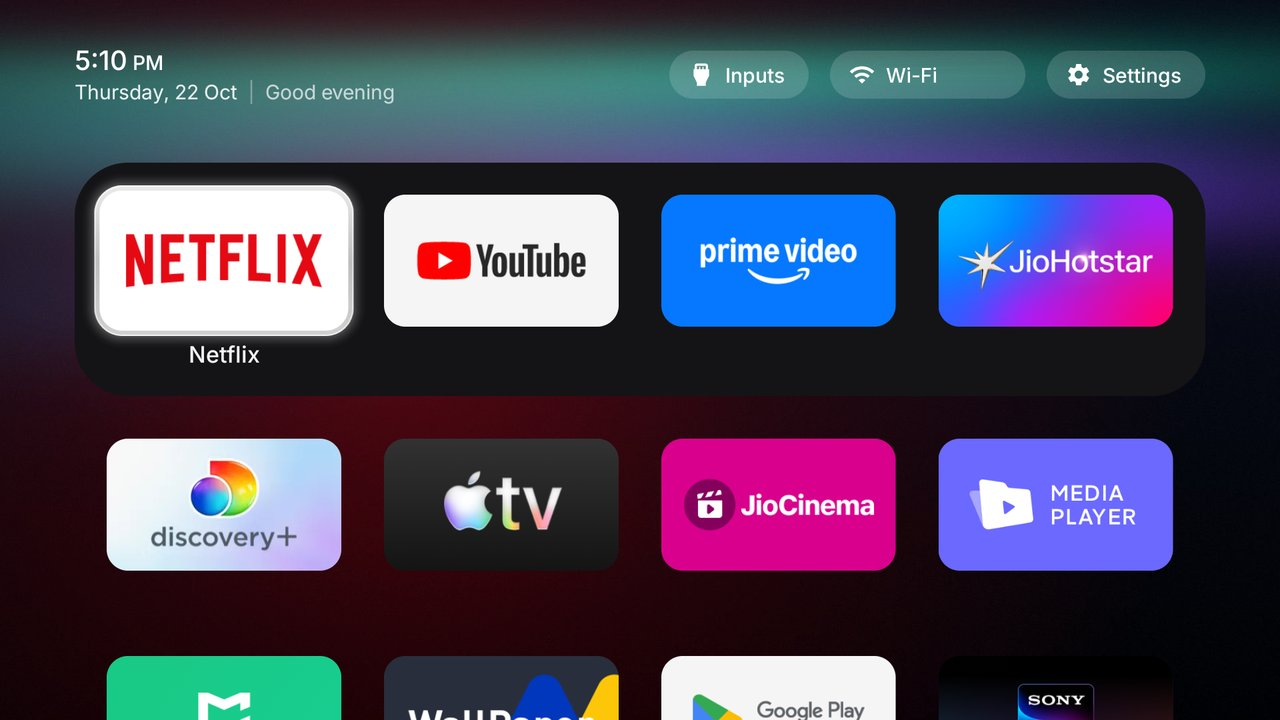
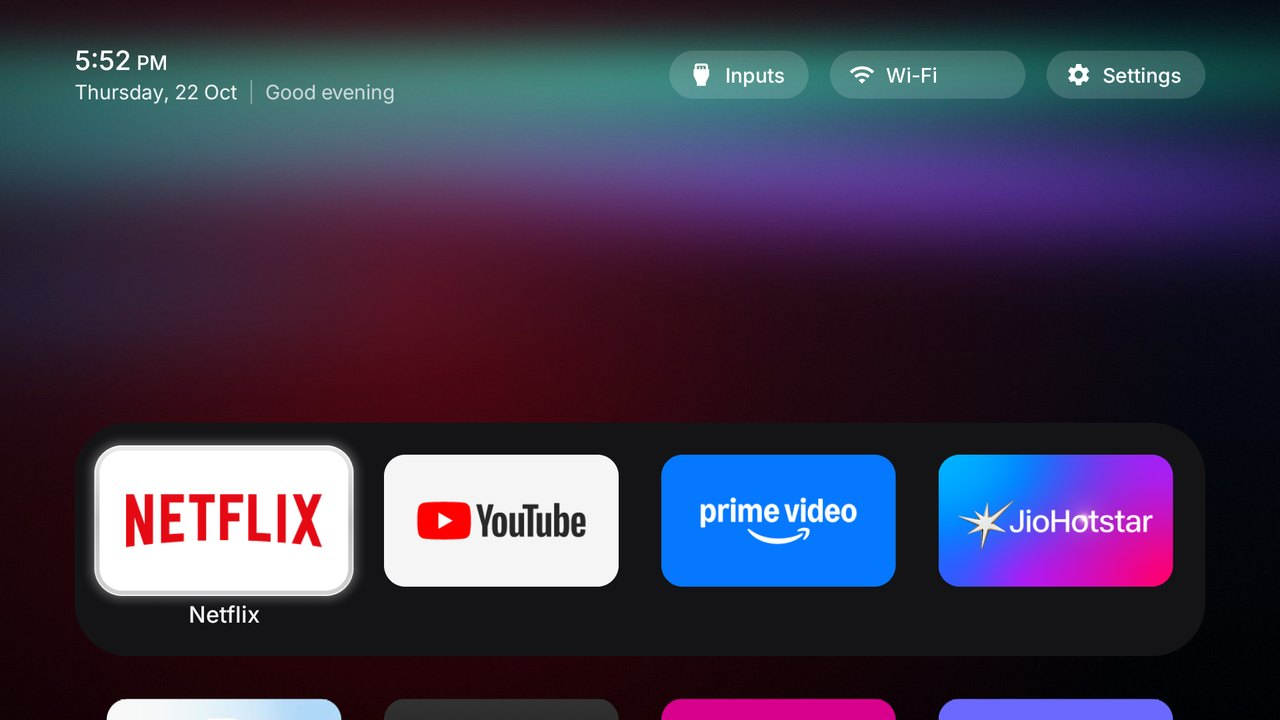
docs, themes: every screenshot retaken, a guide to Home and to each Launcher setting
All README and theme screenshots retaken on the Xiaomi MiTV-AXSO2 with rows below
dock at 0 (now the default again) and the Wi-Fi name painted over. The write-up
starts with what is on Home, how to install, and what each Launcher setting does,
with a screenshot of Home for every choice and of the settings sketch.

diff --git a/docs/readable-home/README.md b/docs/readable-home/README.md
@@ -1,16 +1,96 @@
 # Readable Home
 
-A restyle of this repo's reference launcher for people of any age reading the TV from the sofa: larger and
-calmer type, one spacing system for everything on screen, a clearer focus frame and a slim top bar. Built
-and tested on a Xiaomi MiTV-AXSO2 (dangalUHD, Android TV 9, firmware PI.6432).
+A restyle of this repo's launcher for people of any age reading the TV from the sofa: larger and calmer type,
+one spacing system for everything on screen, a clear focus frame and a slim top bar. Everything else works as
+in the reference launcher: themes, module cards, the app library, the Inputs menu, the remote buttons.
+
+Built and tested on a Xiaomi MiTV-AXSO2 (dangalUHD, Android TV 9, firmware PI.6432). Every screenshot on this
+page was taken on that TV, with the Wi-Fi network name painted over.
 
 | Before (reference launcher) | After (Readable Home) |
 |---|---|
-| ![Before](before.jpg) | ![After](after.jpg) |
+| ![Home on the reference launcher](before.jpg) | ![Home on Readable Home](after.jpg) |
 
-The Wi-Fi network name is painted over in both screenshots.
+## What you see on Home
 
-## What changes, and why
+| Part | What it is | What the remote does |
+|---|---|---|
+| Top bar, left | The time, then the date and a greeting | Nothing to select |
+| Top bar, right | Inputs, the Wi-Fi network, Settings | Up from the dock. OK opens; hold OK on Settings for the launcher's own menu |
+| Dock | Your favourite apps in a dark band | Left and Right move between them, OK opens |
+| Grid | Every other app, in the same order as the app list | Down from the dock; Down and Up move a row at a time |
+| Focus frame | A white glass frame with a soft glow around the app you are on; its name appears underneath | Follows the arrows |
+
+Only the app you are on shows its name, so the screen stays quiet; set `always_show_names` in a theme to name
+every tile.
+
+## Install
+
+Same as the reference launcher. With the TV on the same network and network debugging on:
+
+```bash
+git clone -b readable-home https://github.com/itismowgli/cleanyourtv
+cd cleanyourtv
+TV_HOST=<tv ip> launcher/build-and-install.sh
+```
+
+Your dock and hidden apps go in `launcher/app/src/main/res/values/config.xml` before you build, or in a
+theme afterwards (`themes/README.md`).
+
+## Launcher settings
+
+Hold OK on **Settings** in the top bar, then choose **Launcher settings**. The page keeps to the choices that
+cannot make Home look broken. On the right, a sketch of Home shows the choice you are on before you press OK,
+so you can look before you change anything. **Follow theme** puts every choice back.
+
+![Launcher settings with the sketch of Home](settings/settings-default.jpg)
+
+### Apps per row
+
+How many apps sit in each row. More apps per row means smaller tiles. 4 suits most living rooms.
+
+| 4 | 5 | 6 |
+|---|---|---|
+| ![4 apps per row](settings/home-columns-4.jpg) | ![5 apps per row](settings/home-columns-5.jpg) | ![6 apps per row](settings/home-columns-6.jpg) |
+
+### Rows below dock
+
+How much of the app grid shows under the dock without pressing Down. 0 keeps the dock low with the screen
+calm above it; 1 lifts the dock under the top bar with a row of apps below; 2 makes the tiles a little smaller
+so two rows fit.
+
+| 0 | 1 | 2 |
+|---|---|---|
+| ![No rows below the dock](settings/home-rows-0.jpg) | ![One row below the dock](settings/home-rows-1.jpg) | ![Two rows below the dock](settings/home-rows-2.jpg) |
+
+### Dock band opacity
+
+How solid the dark band behind the dock is. It only makes a difference with a wallpaper, which shows through
+at 70% and 50% (these three use the Aurora theme's wallpaper).
+
+| 100% | 70% | 50% |
+|---|---|---|
+| ![Solid dock band](settings/home-dock-100.jpg) | ![Dock band at 70%](settings/home-dock-70.jpg) | ![Dock band at 50%](settings/home-dock-50.jpg) |
+
+### Animations
+
+On by default: the focus frame glides and the focused tile grows a little. Off, both jump straight to the
+next app, which helps on slow TVs. Home looks the same either way when nothing is moving, so there is no
+picture for this one.
+
+### The sketch follows your choice
+
+| Apps per row on 6 | Rows below dock on 2 | Dock band on 50% |
+|---|---|---|
+| ![Sketch with 6 apps per row](settings/settings-columns-6.jpg) | ![Sketch with 2 rows below the dock](settings/settings-rows-2.jpg) | ![Sketch with the dock band at 50%](settings/settings-dock-50.jpg) |
+
+### Not on this page
+
+Seven apps per row, three rows, a 30% dock band and advanced effects still work, from a theme's
+`config.json` (keys in `themes/README.md`). They are left off the page because they are easy to get wrong
+from the sofa.
+
+## What changed, and why (for contributors)
 
 ### Type
 
@@ -138,8 +218,8 @@ name when focus moves on.
 ## Settings for this TV (`config.xml`)
 
 `dock_apps` (Netflix, YouTube, Prime Video, JioHotstar), `live_tv_package` and `hidden_apps` set to
-`com.android.tv` as `examples/xiaomi-mitv-axso2` says, `rows_below_dock` 1, `dock_title` false,
-`always_show_names` true and `focus_overshoot` false. Change them for your own set.
+`com.android.tv` as `examples/xiaomi-mitv-axso2` says, `rows_below_dock` 0, `dock_title` false,
+`always_show_names` false and `focus_overshoot` false. Change them for your own set.
 
 ## Size and performance
 
@@ -165,10 +245,11 @@ fix is on this branch and in upstream PR #924.
 
 ## Screenshots
 
-Every launcher screenshot on this branch is new, taken on the Xiaomi MiTV-AXSO2 with the Wi-Fi network name
-painted over: the README's six (`docs/focus-2-up-netflix.png`, `docs/focus-1-fancode.png`,
-`docs/inputs-menu.jpg`, `docs/clock-screensaver.png`, `docs/tile-move.jpg`, `docs/app-library.jpg`) and
-the six themes' `screenshot.jpg`, at the original 1280x720.
+Every screenshot is new, taken on the Xiaomi MiTV-AXSO2 with this build and the Wi-Fi network name painted
+over: the README's six (`docs/focus-2-up-netflix.png`, `docs/focus-1-fancode.png`, `docs/inputs-menu.jpg`,
+`docs/clock-screensaver.png`, `docs/tile-move.jpg`, `docs/app-library.jpg`), the six themes'
+`screenshot.jpg` at 1280x720, and the settings set in `settings/`, each pushed as a one-key theme so the value
+shown is exact.
 
 ## Hebrew
 
@@ -176,7 +257,3 @@ the six themes' `screenshot.jpg`, at the original 1280x720.
 left) and `date | greeting` reading right to left on line 2, and the buttons are centred on it. Android 9
 cannot switch one app's language from the shell, so it was checked on the TV with a build that used the
 Hebrew layout for every language.
-
-## Build
-
-Same as the reference launcher: `TV_HOST=<tv ip> launcher/build-and-install.sh`.

diff --git a/README.md b/README.md
@@ -1,6 +1,7 @@
 > **This branch is Readable Home**, a restyle of the launcher for easy reading from the sofa: one typeface
 > (Inter) on a five-size type scale, an 8dp spacing grid with concentric corners, a glass focus frame and a
-> slim two-line top bar. Tested on a Xiaomi MiTV-AXSO2. The screenshots below are from this branch; what
+> slim two-line top bar, and a Launcher settings page with a live sketch of Home. Tested on a Xiaomi
+> MiTV-AXSO2. The screenshots below are from this branch. How to use it, what every setting does, and what
 > changed and why: [docs/readable-home](docs/readable-home/README.md). Everything else is upstream
 > [Gathin23/cleanyourtv](https://github.com/Gathin23/cleanyourtv).
 
@@ -79,6 +80,7 @@ A home screen that looks like an Apple TV and gets out of the way:
 | **One glass focus frame** | With a slight glow, glides from tile to tile around the focused tile, which grows 6%. A name too long for its tile scrolls once. |
 | **Three buttons** | Inputs (HDMI ports under the names you gave them in the TV's settings, AV, Live TV), Wi-Fi or Ethernet with the network name, Settings. |
 | **The time, the date and a greeting** | On two lines as tall as the buttons, in [Inter](https://rsms.me/inter/), and a matching Clock screensaver. Set `show_stats` in config or a theme for one line under the clock: CPU, free memory and free storage. It stays off unless you turn it on, and it refreshes only while Home is on screen. |
+| **Launcher settings** | Hold OK on Settings, then Launcher settings: apps per row, rows below the dock, dock opacity and animations, with a sketch of Home that shows each choice before you make it. |
 | **Themes and module cards** | Themes change colours, wallpaper, dock and columns without a rebuild, and module cards let other apps plug a tile in, only with your say-so. |
 
 And a TV that stops working against you: no sponsored rows, no "Discover" nags, no analytics
@@ -94,6 +96,8 @@ phoning home, no apps you never asked for.
 | *Aurora theme, pushed with `tools/theme.sh`* | *Six columns and a six-app dock, same launcher* |
 | ![Reordering: a tile is picked up and the others dim](docs/tile-move.jpg) | ![The App library: installed apps, one press adds an app back to Home](docs/app-library.jpg) |
 | *Hold OK on Settings, Reorder apps: arrows carry the tile, Back puts it down* | *App library: one press puts a removed app back on Home* |
+| ![Launcher settings: the choices on the left, a sketch of Home on the right](docs/readable-home/settings/settings-columns-6.jpg) | ![Home with two rows of apps under the dock](docs/readable-home/settings/home-rows-2.jpg) |
+| *Launcher settings: the sketch shows the choice you are on* | *Rows below dock on 2, as the sketch showed* |
 
 ## Supported TVs
 
